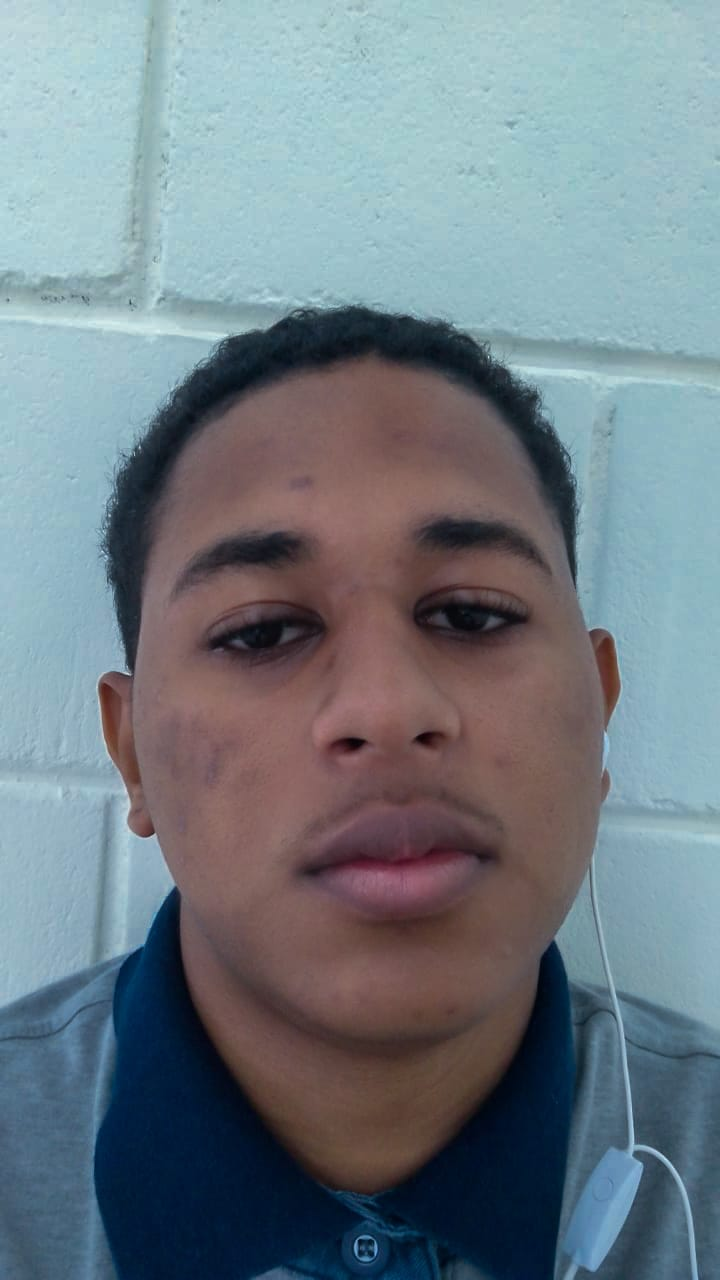
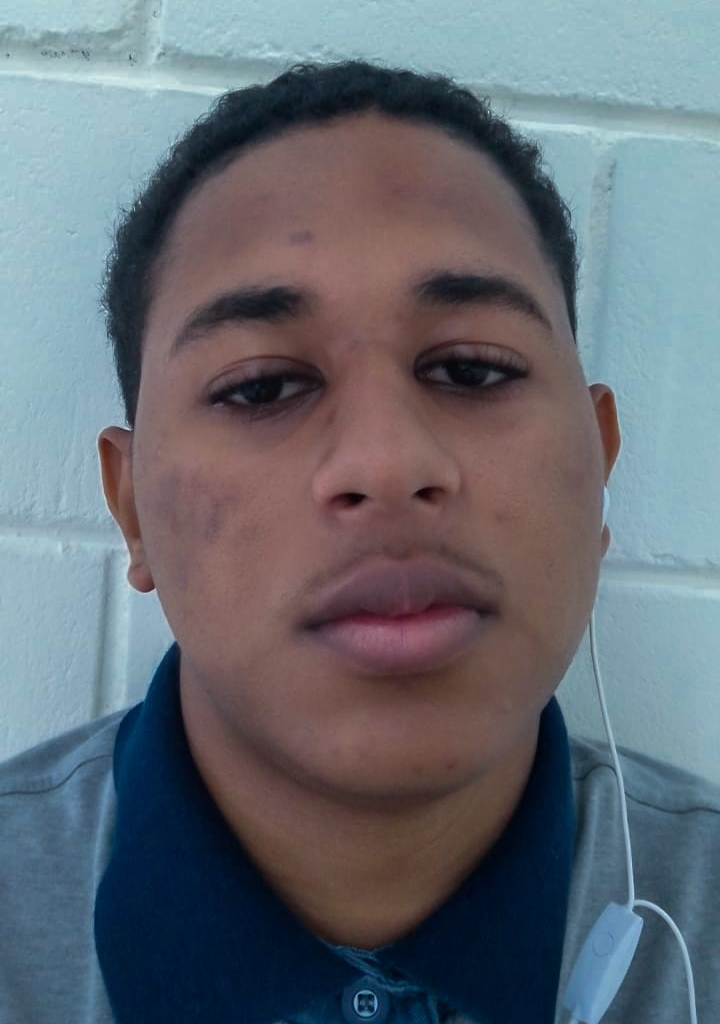
fotos dde integrantes redimencionadas e tabela da equipe refeita somente com html

diff --git a/README.md b/README.md
@@ -8,7 +8,7 @@
   <a href ="#proposta"> Proposta </a>  • 
   <a href ="#cronograma-das-sprints"> Sprints </a>  • 
   <a href ="#tecnologias-utilizadas"> Tecnologias </a>  •
-  <a href ="#tabela_equipe"> Equipe </a> 
+  <a href ="#table_equipe"> Equipe </a> 
  
 </p>
 
@@ -91,7 +91,68 @@ do contrato);
 
 ## 👨💻 Equipe
 
-<div id="tabela_equipe" align="center" width="400"> 
+<div id="table_equipe" align="center" width="400">
+    <table border="2">
+      <tr id="head_table">
+        <th>Nome</th>
+        <th>Função</th>
+        <th>LinkedIn</th>
+        <th>GitHub</th>
+        <th>Avatar</th>
+      </tr>
+      <tr id="linha_table">
+        <td>Vitória Moura</td>
+        <td>Scrum Master</td>
+        <td><a href="https://www.linkedin.com/in/vit%C3%B3ria-moura-6393391b0/">@LinkedIn</a></td>
+        <td><a href="https://github.com/vitoriasaturnino">@GitHub</a></td>
+        <td><img src = "./readme/integrantes/vitoria.jpeg" width="40"></td>
+    </tr>
+      <tr id="linha_table">
+        <td>Julio Cesar</td>
+        <td>Product Owner</td>
+        <td><a href="https://www.linkedin.com/in/juliocesar2811/">@LinkedIn</a></td>
+        <td><a href="https://github.com/juliocesar1316">@GitHub</a></td>
+        <td><img src = "./readme/integrantes/julio.jpeg" width="40"></td>
+      </tr>
+      <tr id="linha_table">
+        <td>Douglas Queiroz</td>
+        <td>Desenvolvedor</td>
+        <td><a href="https://www.linkedin.com/in/douglas-queiroz-3b9a72212/">@LinkedIn</a></td>
+        <td><a href="https://github.com/douglaswe">@GitHub</a></td>
+        <td> <img src = "./readme/integrantes/douglas.jpeg" width="40"></td>
+      </tr>
+      <tr id="linha_table">
+        <td>Francisco Quirino</td>
+        <td>Desenvolvedor</td>
+        <td><a href="https://www.linkedin.com/in/francisco-quirino-4087281b1">@LinkedIn</a></td>
+        <td><a href="https://github.com/ciscoquirino">@GitHub</a></td>
+        <td><img src = "./readme/integrantes/francisco.jpeg" width="40"></td>
+      </tr>
+      <tr id="linha_table">
+        <td>Juliana Maria</td>
+        <td>Desenvolvedora</td>
+        <td><a href="https://www.linkedin.com/in/juliana-maria-a0b0a0124">@LinkedIn</a></td>
+        <td><a href="https://github.com/JulianaMaria-Lab">@GitHub</a></td>
+        <td><img src = "./readme/integrantes/juliana maria.jpeg" width="40"></td>
+      </tr>
+      <tr id="linha_table">
+        <td>Marcelo Uchoas</td>
+        <td>Desenvolvedor</td>
+        <td><a href="https://www.linkedin.com/in/marcelo-uch%C3%B4as-de-oliveira-b2536a18b/">@LinkedIn</a></td>
+        <td><a href="https://github.com/marcelouchoas">@GitHub</a></td>
+        <td><img src = "./readme/integrantes/marcelo.jpeg" width="40"></td>
+      </tr>
+      <tr id="linha_table">
+        <td>Richard Rafael</td>
+        <td>Desenvolvedor</td>
+        <td><a href="https://www.linkedin.com/mwlite/in/richard-soares-002195221">@LinkedIn</a></td>
+        <td><a href="https://github.com/Richardrafael">@GitHub</a></td>
+        <td><img src = "./readme/integrantes/richard.jpeg" width="40"></td>
+      </tr>
+    </table>
+  </div>
+
+<!-- <div id="tabela_equipe" align="center" width="400"> 
 
 | Nome                  | Função        | Linkedin                                                                 | GitHub                                         | Avatar                                                          |
 | --------------------- | ------------- | ------------------------------------------------------------------------ | ---------------------------------------------- | --------------------------------------------------------------- |
@@ -102,4 +163,4 @@ do contrato);
 | **Juliana Maria**     | Desenvolvedora | [@LinkedIn](https://www.linkedin.com/in/juliana-maria-a0b0a0124)         | [@GitHub](https://github.com/JulianaMaria-Lab) | <img src = "./readme/integrantes/juliana maria.jpeg" width="40">                                   |
 | **Marcelo Uchoas**    | Desenvolvedor | [@LinkedIn](https://www.linkedin.com/in/marcelo-uch%C3%B4as-de-oliveira-b2536a18b/)  |  [@GitHub](https://github.com/marcelouchoas)    | <img src = "./readme/integrantes/marcelo.jpeg" width="40">                                   |
 | **Richard Rafael**    | Desenvolvedor |  [@LinkedIn](https://www.linkedin.com/mwlite/in/richard-soares-002195221) | [@GitHub](https://github.com/Richardrafael)    | <img src = "./readme/integrantes/richard.jpeg" width="40">                                   |
-</div>
+</div> -->
